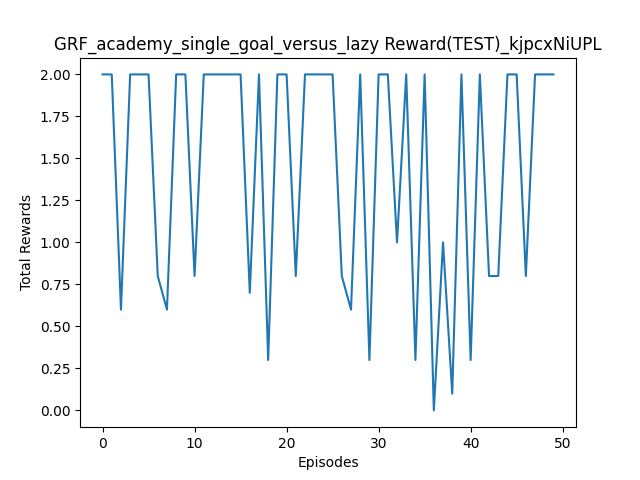
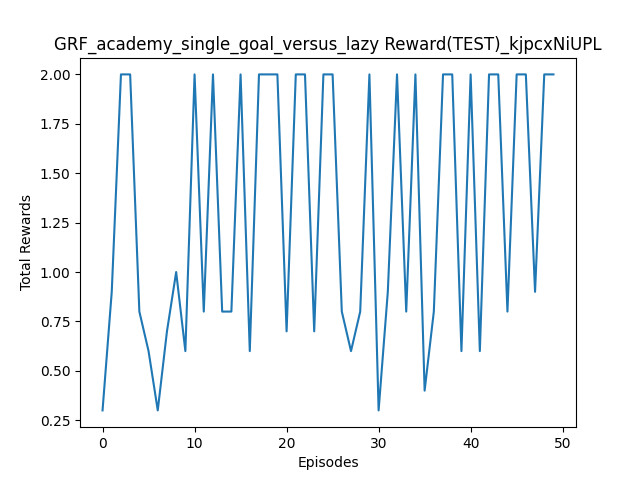
Added new network configuration

diff --git a/networks.py b/networks.py
@@ -65,3 +65,35 @@ class ActorNetwork_v2(nn.Module):
         input = torch.relu(self.layer1(input))
         input = F.softmax(self.outputLayer(input), dim=-1)
         return input
+
+
+
+class CriticNetwork_v3(nn.Module):
+    def __init__(self, config):
+        super(CriticNetwork_v3, self).__init__()
+        self.device = config['device']
+        self.inputLayer = nn.Linear(config["state_size"], config["state_size"] * 3)
+        self.layer1 = nn.Linear(config["state_size"] * 3, config["state_size"] * 3)
+        self.outputLayer = nn.Linear(config["state_size"] * 3, 1)
+
+    def forward(self, input):
+        input = input.to(self.device)
+        input = torch.relu(self.inputLayer(input))
+        input = torch.relu(self.layer1(input))
+        input = self.outputLayer(input)
+        return input
+
+class ActorNetwork_v3(nn.Module):
+    def __init__(self, config):
+        super(ActorNetwork_v3, self).__init__()
+        self.device = config['device']
+        self.inputLayer = nn.Linear(config["state_size"], config["state_size"] * 3)
+        self.layer1 = nn.Linear(config["state_size"] * 3, config["state_size"] * 3)
+        self.outputLayer = nn.Linear(config["state_size"] * 3, config["action_size"])
+
+    def forward(self, input):
+        input = input.to(self.device)
+        input = torch.relu(self.inputLayer(input))
+        input = torch.relu(self.layer1(input))
+        input = F.softmax(self.outputLayer(input), dim=-1)
+        return input

diff --git a/main.py b/main.py
@@ -87,8 +87,8 @@ def controller(agentName=None):
         "model_path": os.getcwd() + "\\models\\",
         "plots_path": os.getcwd() + "\\plots_ppo\\",
         "device": device,
-        "actor_class": 'ActorNetwork_v2',
-        "critic_class": 'CriticNetwork_v2'
+        "actor_class": 'ActorNetwork_v3',
+        "critic_class": 'CriticNetwork_v3'
     }
     agent, env, plotter, testMode = loadConfigurationAndTrain(configuration)
     agent.testWrapper(env, plotter, testMode)
